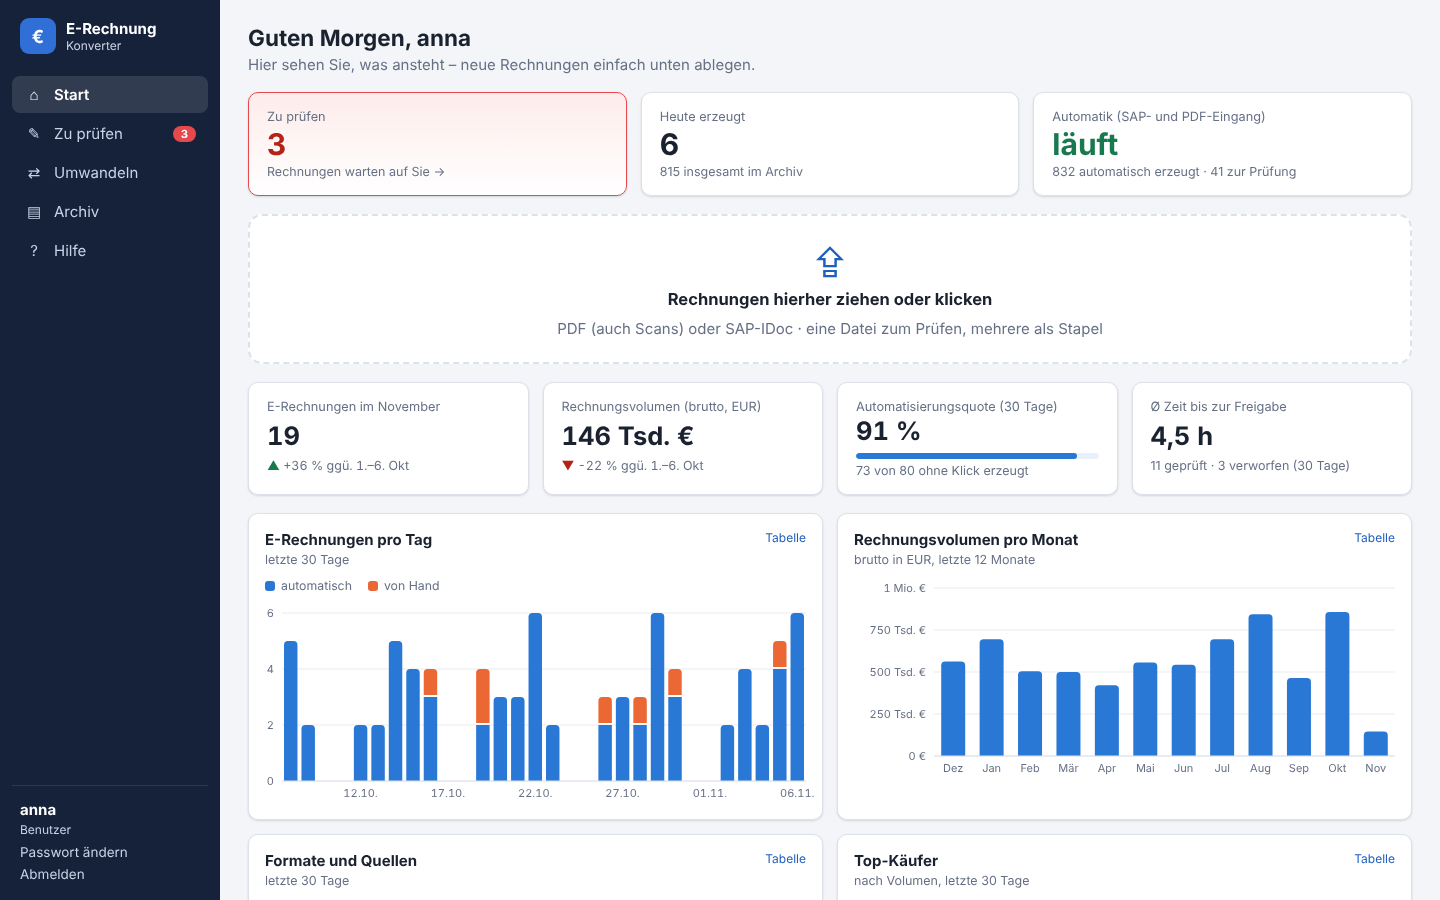
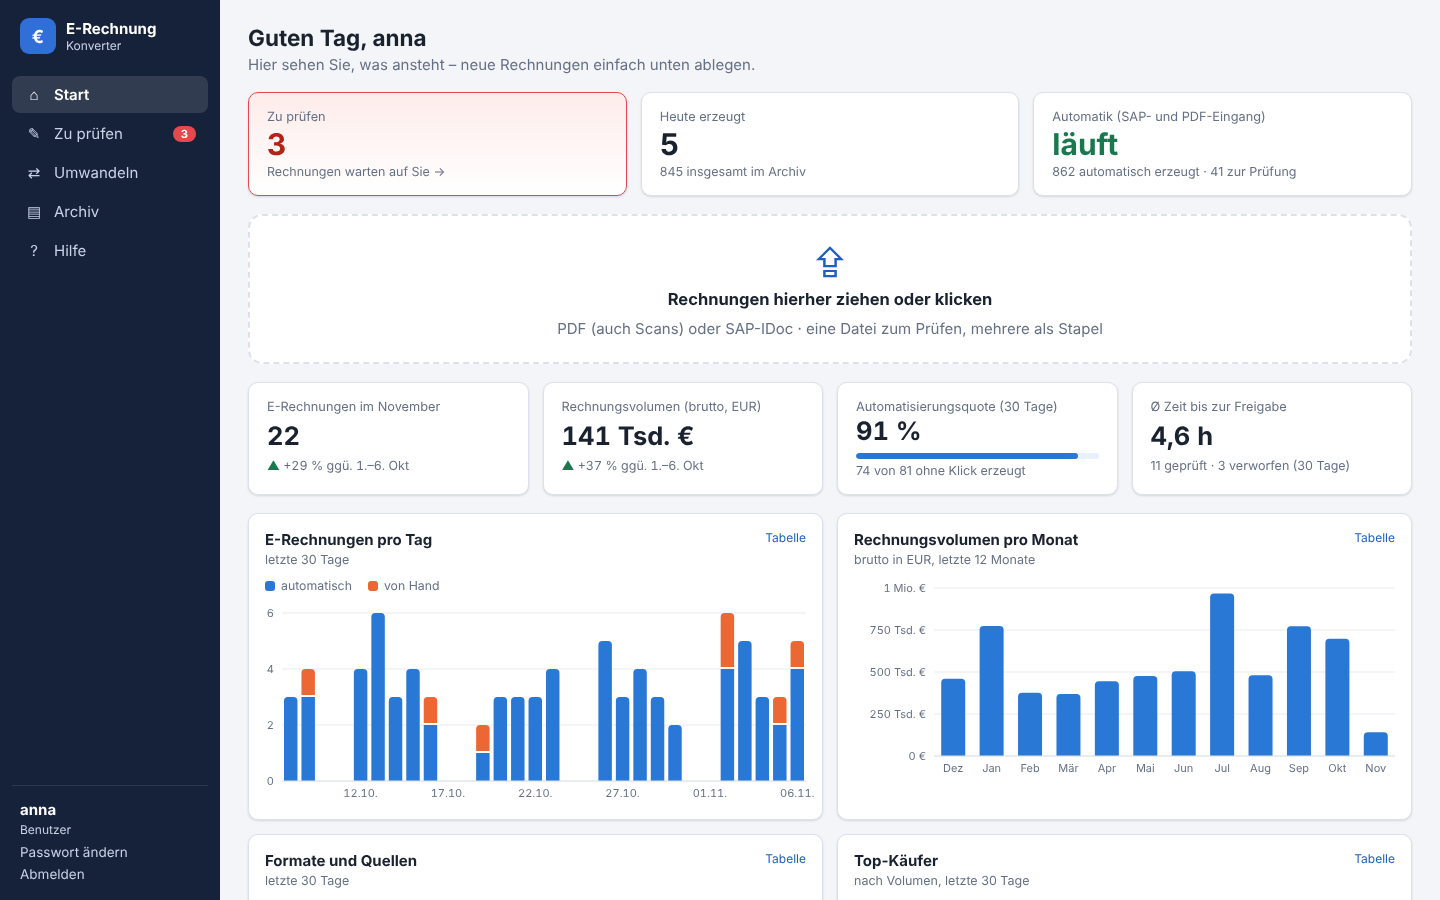
Archiv: Spalte und Filter "Firma" (ausstellende eigene Firma)
- documents.seller_name (Index); beim Erzeugen gesetzt, bestehende Einträge
  werden beim Start aus der gespeicherten Rechnung nachgefüllt.
- GET /api/documents: Filter "seller", Suche findet auch die eigene Firma.
- Archiv: Spalte "Firma" und Auswahl "Firma" (bei mehreren eigenen Firmen);
  Filterleiste passt in eine Zeile.
- Kartenansicht der Positionen nur noch für die Positionstabelle (.lines.items),
  nicht für das Archiv.
- Demo-Daten verteilen Rechnungen auf alle drei Demo-Firmen.

Claude-Session: https://claude.ai/code/session_01VLWA3mXxtMvGpHw5CDNm9j

diff --git a/frontend/src/Archive.tsx b/frontend/src/Archive.tsx
@@ -1,5 +1,5 @@
 import { useEffect, useState } from "react";
-import { documentUrl, downloadZip, listDocuments } from "./api";
+import { documentUrl, downloadZip, listCompanies, listDocuments } from "./api";
 import type { DocumentFilter, DocumentPage } from "./types";
 import { describe, download, eur, fmtDateTime } from "./util";
 
@@ -8,12 +8,26 @@ const PAGE_SIZE = 25;
 
 /** Every generated e-invoice (UI exports and the SAP inbox worker), newest first, searchable. */
 export function Archive({ refreshKey }: { refreshKey: number }) {
-  const [filter, setFilter] = useState<DocumentFilter>({ q: "", date_from: "", date_to: "", profile: "", source: "" });
+  const [filter, setFilter] = useState<DocumentFilter>({
+    q: "",
+    date_from: "",
+    date_to: "",
+    profile: "",
+    source: "",
+    seller: "",
+  });
+  const [companies, setCompanies] = useState<string[]>([]);
   const [query, setQuery] = useState(""); // search box, applied debounced
   const [offset, setOffset] = useState(0);
   const [page, setPage] = useState<DocumentPage | null>(null);
   const [selected, setSelected] = useState<Set<number>>(new Set());
   const [error, setError] = useState("");
+
+  useEffect(() => {
+    listCompanies()
+      .then((cs) => setCompanies(cs.map((c) => c.seller.name).filter(Boolean)))
+      .catch(() => undefined);
+  }, []);
 
   useEffect(() => {
     const t = setTimeout(() => {
@@ -45,7 +59,9 @@ export function Archive({ refreshKey }: { refreshKey: number }) {
     });
   const items = page?.items ?? [];
   const allOnPage = items.length > 0 && items.every((d) => selected.has(d.id));
-  const filtered = Boolean(filter.q || filter.date_from || filter.date_to || filter.profile || filter.source);
+  const filtered = Boolean(
+    filter.q || filter.date_from || filter.date_to || filter.profile || filter.source || filter.seller,
+  );
 
   return (
     <section className="archive">
@@ -56,7 +72,7 @@ export function Archive({ refreshKey }: { refreshKey: number }) {
 
       <div className="filters">
         <label className="field grow">
-          <span>Suche (Rechnungsnummer oder Käufer)</span>
+          <span>Suche (Rechnungsnummer, Käufer oder Firma)</span>
           <input type="search" value={query} onChange={(e) => setQuery(e.target.value)} placeholder="z. B. RE-2026 oder Kunde AG" />
         </label>
         <label className="field">
@@ -67,6 +83,19 @@ export function Archive({ refreshKey }: { refreshKey: number }) {
           <span>Bis</span>
           <input type="date" value={filter.date_to} onChange={(e) => set({ date_to: e.target.value })} />
         </label>
+        {companies.length > 1 && (
+          <label className="field">
+            <span>Firma</span>
+            <select value={filter.seller} onChange={(e) => set({ seller: e.target.value })}>
+              <option value="">Alle</option>
+              {companies.map((name) => (
+                <option key={name} value={name}>
+                  {name}
+                </option>
+              ))}
+            </select>
+          </label>
+        )}
         <label className="field">
           <span>Format</span>
           <select value={filter.profile} onChange={(e) => set({ profile: e.target.value as DocumentFilter["profile"] })}>
@@ -115,6 +144,7 @@ export function Archive({ refreshKey }: { refreshKey: number }) {
                 </th>
                 <th>Erstellt</th>
                 <th>Rechnung</th>
+                <th>Firma</th>
                 <th>Käufer</th>
                 <th className="right">Brutto</th>
                 <th>Format</th>
@@ -131,6 +161,7 @@ export function Archive({ refreshKey }: { refreshKey: number }) {
                   </td>
                   <td>{fmtDateTime(d.created_at)}</td>
                   <td>{d.invoice_number}</td>
+                  <td>{d.seller_name || "–"}</td>
                   <td>{d.buyer_name}</td>
                   <td className="right">{eur(d.grand_total, d.currency)}</td>
                   <td>{d.profile === "xrechnung" ? "XRechnung" : "ZUGFeRD"}</td>

diff --git a/frontend/src/styles.css b/frontend/src/styles.css
@@ -168,7 +168,8 @@ input:focus, select:focus { border-color: var(--accent); outline: none; box-shad
 .field.narrow { max-width: 260px; margin-bottom: 12px; }
 .field.end button.primary { width: auto; }
 
-.lines { overflow-x: auto; container-type: inline-size; container-name: lines; }
+.lines { overflow-x: auto; }
+.lines.items { container-type: inline-size; container-name: lines; }
 .lines table { width: 100%; border-collapse: collapse; min-width: 940px; }
 .lines th { text-align: left; font-size: 0.75rem; color: var(--muted); font-weight: 500; padding: 0 4px 6px; }
 .lines td { padding: 3px 4px; }
@@ -310,8 +311,8 @@ tr.status-fehler strong { color: var(--error); }
 .archive-head { display: flex; align-items: baseline; gap: 12px; }
 .archive-head h2 { margin-bottom: 8px; }
 .filters { display: flex; flex-wrap: wrap; gap: 10px 12px; margin-bottom: 12px; }
-.filters .field { flex: 0 1 160px; }
-.filters .field.grow { flex: 1 1 280px; }
+.filters .field { flex: 0 1 150px; min-width: 130px; }
+.filters .field.grow { flex: 1 1 220px; }
 .pager { display: flex; flex-wrap: wrap; align-items: center; gap: 8px; margin-top: 10px; }
 .pager .spacer { flex: 1; }
 .archive a { color: var(--accent); }
@@ -490,18 +491,18 @@ table.compact td, table.compact th { padding: 6px 8px; font-size: 0.86rem; }
 
 /* line items as cards when the form is narrow (e.g. next to the PDF preview) */
 @container lines (max-width: 900px) {
-  .lines table, .lines tbody { display: block; min-width: 0; }
-  .lines thead { display: none; }
-  .lines tr {
+  .lines.items table, .lines.items tbody { display: block; min-width: 0; }
+  .lines.items thead { display: none; }
+  .lines.items tr {
     display: grid; grid-template-columns: repeat(4, minmax(0, 1fr)); gap: 6px 8px; position: relative;
     padding: 10px 34px 10px 0; border-bottom: 1px solid var(--border);
   }
-  .lines td { padding: 0; display: flex; flex-direction: column; gap: 2px; min-width: 0; }
-  .lines td::before { content: attr(data-label); font-size: 0.72rem; color: var(--muted); }
-  .lines td.name { grid-column: span 2; }
-  .lines td input, .lines td select, .lines input.xs, .lines input.sm, .lines input.num:not(.xs) { width: 100%; min-width: 0; }
-  .lines td.del { position: absolute; right: 0; top: 26px; }
-  .lines td.del::before { content: none; }
+  .lines.items td { padding: 0; display: flex; flex-direction: column; gap: 2px; min-width: 0; }
+  .lines.items td::before { content: attr(data-label); font-size: 0.72rem; color: var(--muted); }
+  .lines.items td.name { grid-column: span 2; }
+  .lines.items td input, .lines.items td select, .lines.items input.xs, .lines.items input.sm, .lines.items input.num:not(.xs) { width: 100%; min-width: 0; }
+  .lines.items td.del { position: absolute; right: 0; top: 26px; }
+  .lines.items td.del::before { content: none; }
 }
 
 /* --- companies: cards + dialog --- */
@@ -561,6 +562,6 @@ dialog.modal form { display: flex; flex-direction: column; max-height: calc(100v
 .sum-ok { display: block; color: var(--ok); font-weight: 500; font-size: 0.75rem; }
 .sum-bad { display: block; color: var(--error); font-weight: 600; font-size: 0.75rem; }
 @container lines (max-width: 900px) {
-  .lines td.line-total { padding: 0; text-align: left; font-weight: 600; }
-  .lines td.name input { min-width: 0; }
+  .lines.items td.line-total { padding: 0; text-align: left; font-weight: 600; }
+  .lines.items td.name input { min-width: 0; }
 }

diff --git a/frontend/src/types.ts b/frontend/src/types.ts
@@ -117,6 +117,7 @@ export interface ArchivedDocument {
   source_name: string;
   profile: Profile;
   invoice_number: string;
+  seller_name: string;
   buyer_name: string;
   grand_total: string;
   currency: string;
@@ -193,6 +194,7 @@ export interface DocumentFilter {
   date_to?: string;
   profile?: Profile | "";
   source?: "pdf" | "idoc" | "manual" | "";
+  seller?: string;
   offset?: number;
   limit?: number;
 }

diff --git a/frontend/src/InvoiceForm.tsx b/frontend/src/InvoiceForm.tsx
@@ -142,7 +142,7 @@ function LinesTable({
     );
   };
   return (
-    <div className="lines">
+    <div className="lines items">
       <table>
         <thead>
           <tr>

diff --git a/backend/app/db.py b/backend/app/db.py
@@ -53,6 +53,7 @@ class Document(Base):
     source_name: Mapped[str] = mapped_column(String(255), default="")
     profile: Mapped[str] = mapped_column(String(20))  # "zugferd" | "xrechnung"
     invoice_number: Mapped[str] = mapped_column(String(100), index=True)
+    seller_name: Mapped[str] = mapped_column(String(255), default="", index=True)  # own company (issuer)
     buyer_name: Mapped[str] = mapped_column(String(255), default="")
     grand_total: Mapped[Decimal] = mapped_column(Numeric(14, 2))
     currency: Mapped[str] = mapped_column(String(3))
@@ -209,6 +210,14 @@ def _upgrade(conn: Connection) -> None:
     columns = {c["name"] for c in inspect(conn).get_columns("documents")}
     if "created_by" not in columns:
         conn.execute(text("ALTER TABLE documents ADD COLUMN created_by VARCHAR(100) NOT NULL DEFAULT ''"))
+    if "seller_name" not in columns:
+        conn.execute(text("ALTER TABLE documents ADD COLUMN seller_name VARCHAR(255) NOT NULL DEFAULT ''"))
+        # fill in the issuing company of existing archive entries from the stored invoice
+        docs = Document.__table__
+        for doc_id, inv in conn.execute(select(docs.c.id, docs.c.invoice)).all():
+            name = ((inv or {}).get("seller") or {}).get("name") or ""
+            if name:
+                conn.execute(docs.update().where(docs.c.id == doc_id).values(seller_name=name[:255]))
     columns = {c["name"] for c in inspect(conn).get_columns("customers")}
     if "source" not in columns:
         conn.execute(text("ALTER TABLE customers ADD COLUMN source VARCHAR(20) NOT NULL DEFAULT 'rechnung'"))
@@ -240,6 +249,7 @@ def archive(
         profile=profile,
         invoice_number=invoice.number,
         buyer_name=invoice.buyer.name[:255],
+        seller_name=invoice.seller.name[:255],
         grand_total=compute_totals(invoice).grand_total,
         currency=invoice.currency,
         invoice=invoice.model_dump(mode="json"),
@@ -261,10 +271,11 @@ def search_documents(
     date_to: date | None = None,
     profile: str | None = None,
     source: str | None = None,
+    seller: str | None = None,
     offset: int = 0,
     limit: int = 50,
 ) -> tuple[list[Document], int]:
-    """Archive search, newest first. `query` matches invoice number or buyer (case-insensitive)."""
+    """Archive search, newest first. `query` matches invoice number, buyer or own company (case-insensitive)."""
     conditions = []
     if query.strip():
         term = query.strip().lower()
@@ -272,6 +283,7 @@ def search_documents(
             or_(
                 func.lower(Document.invoice_number).contains(term, autoescape=True),
                 func.lower(Document.buyer_name).contains(term, autoescape=True),
+                func.lower(Document.seller_name).contains(term, autoescape=True),
             )
         )
     if date_from:
@@ -282,6 +294,8 @@ def search_documents(
         conditions.append(Document.profile == profile)
     if source:
         conditions.append(Document.source == source)
+    if seller:
+        conditions.append(Document.seller_name == seller)
     total = session.scalar(select(func.count()).select_from(Document).where(*conditions)) or 0
     stmt = (
         select(Document)

diff --git a/backend/tests/test_archive_seller.py b/backend/tests/test_archive_seller.py
@@ -1,0 +1,49 @@
+"""Own company (issuer) in the archive: column, backfill of old entries, filter."""
+
+from __future__ import annotations
+
+import json
+
+from fastapi.testclient import TestClient
+from sqlalchemy import create_engine, text
+from sqlalchemy.orm import sessionmaker
+
+from app.db import Base, Document, _upgrade, archive, get_engine
+from app.model import Invoice
+
+
+def test_old_archive_entries_get_their_company(tmp_path) -> None:
+    engine = create_engine(f"sqlite:///{tmp_path}/old.db")
+    Base.metadata.create_all(engine)
+    with engine.begin() as conn:  # database of an older version: no seller_name column
+        conn.execute(text("DROP INDEX ix_documents_seller_name"))
+        conn.execute(text("ALTER TABLE documents DROP COLUMN seller_name"))
+        conn.execute(
+            text(
+                "INSERT INTO documents (created_at, source, source_name, profile, invoice_number, buyer_name,"
+                " grand_total, currency, invoice, filename, media_type, content, created_by)"
+                " VALUES ('2026-11-05 10:00:00', 'pdf', 'a.pdf', 'zugferd', 'RE-1', 'Kunde', 10, 'EUR', :inv,"
+                " 'a.pdf', 'application/pdf', x'00', 'anna')"
+            ),
+            {"inv": json.dumps({"seller": {"name": "Alte Firma GmbH"}})},
+        )
+    with engine.begin() as conn:
+        _upgrade(conn)
+        assert conn.execute(text("SELECT seller_name FROM documents")).scalar() == "Alte Firma GmbH"
+
+
+def test_archive_shows_and_filters_by_company(client: TestClient, invoice: Invoice) -> None:
+    with sessionmaker(get_engine(), expire_on_commit=False)() as s:
+        for seller, number in (("Firma Nord GmbH", "NORD-1"), ("Firma Süd GmbH", "SUED-1")):
+            inv = invoice.model_copy(deep=True)
+            inv.seller.name, inv.number = seller, number
+            archive(s, inv, profile="zugferd", source="pdf", source_name="x.pdf", filename="x.pdf",
+                    media_type="application/pdf", content=b"%PDF")  # fmt: skip
+        s.commit()
+        assert s.query(Document).filter_by(invoice_number="NORD-1").one().seller_name == "Firma Nord GmbH"
+
+    page = client.get("/api/documents", params={"seller": "Firma Süd GmbH"}).json()
+    assert [d["invoice_number"] for d in page["items"]] == ["SUED-1"]
+    assert page["items"][0]["seller_name"] == "Firma Süd GmbH"
+    found = client.get("/api/documents", params={"q": "nord"}).json()["items"]
+    assert any(d["invoice_number"] == "NORD-1" for d in found)

diff --git a/backend/scripts/demo_data.py b/backend/scripts/demo_data.py
@@ -123,7 +123,8 @@ def main() -> None:
         growth = 1 + (365 - back) / 220  # business grows over the year
         for _ in range(rng.choices([0, 1, 2, 3, 4], [2, 3, 3, 2, 1])[0] + int(growth)):
             n += 1
-            inv = _invoice(seller, n, rng.choices(BUYERS, WEIGHTS)[0], day, rng)
+            issuer = rng.choices(companies, [6, 3, 1])[0].seller  # most invoices from the first company
+            inv = _invoice(issuer, n, rng.choices(BUYERS, WEIGHTS)[0], day, rng)
             auto = rng.random() < min(0.45 + (365 - back) / 700, 0.9)  # automation improves
             source = "idoc" if auto and rng.random() < 0.7 else "pdf" if auto else rng.choice(["pdf", "manual"])
             created = datetime.combine(day, datetime.min.time(), UTC) + timedelta(hours=rng.uniform(7, 17))
@@ -135,6 +136,7 @@ def main() -> None:
                     profile="xrechnung" if inv.buyer.name.startswith("Stadtwerke") else "zugferd",
                     invoice_number=inv.number,
                     buyer_name=inv.buyer.name,
+                    seller_name=inv.seller.name,
                     grand_total=compute_totals(inv).grand_total,
                     currency="EUR",
                     invoice=inv.model_dump(mode="json"),

diff --git a/backend/app/main.py b/backend/app/main.py
@@ -77,6 +77,7 @@ class DocumentInfo(BaseModel):
     source_name: str
     profile: str
     invoice_number: str
+    seller_name: str = ""
     buyer_name: str
     grand_total: Decimal
     currency: str
@@ -306,6 +307,7 @@ def documents(
     date_to: date | None = None,
     profile: Literal["zugferd", "xrechnung"] | None = None,
     source: Literal["pdf", "idoc", "manual"] | None = None,
+    seller: str | None = Query(None, max_length=255, description="eigene Firma (Name)"),
     offset: int = Query(0, ge=0),
     limit: int = Query(50, ge=1, le=200),
     _: User = Depends(current_user),
@@ -318,6 +320,7 @@ def documents(
         date_to=date_to,
         profile=profile,
         source=source,
+        seller=seller,
         offset=offset,
         limit=limit,
     )

diff --git a/backend/app/handbuch/anwender.md b/backend/app/handbuch/anwender.md
@@ -111,7 +111,7 @@ Jede erzeugte E-Rechnung wird im Archiv gespeichert – egal ob von Hand oder au
 
 ![Archiv](img/archiv.png)
 
-- **Suche** nach Rechnungsnummer oder Käufer, Filter nach **Zeitraum**, **Format** und **Quelle**.
+- **Suche** nach Rechnungsnummer, Käufer oder eigener Firma, Filter nach **Zeitraum**, **Firma**, **Format** und **Quelle**. Die Spalte **„Firma“** zeigt, welche eigene Firma die Rechnung ausgestellt hat.
 - **Herunterladen** lädt die E-Rechnung erneut herunter.
 - Mehrere Einträge per Häkchen auswählen und gemeinsam als **ZIP** herunterladen.
 - In der Spalte **„Von“** steht, wer die Rechnung erzeugt hat („worker“ = automatisch).
